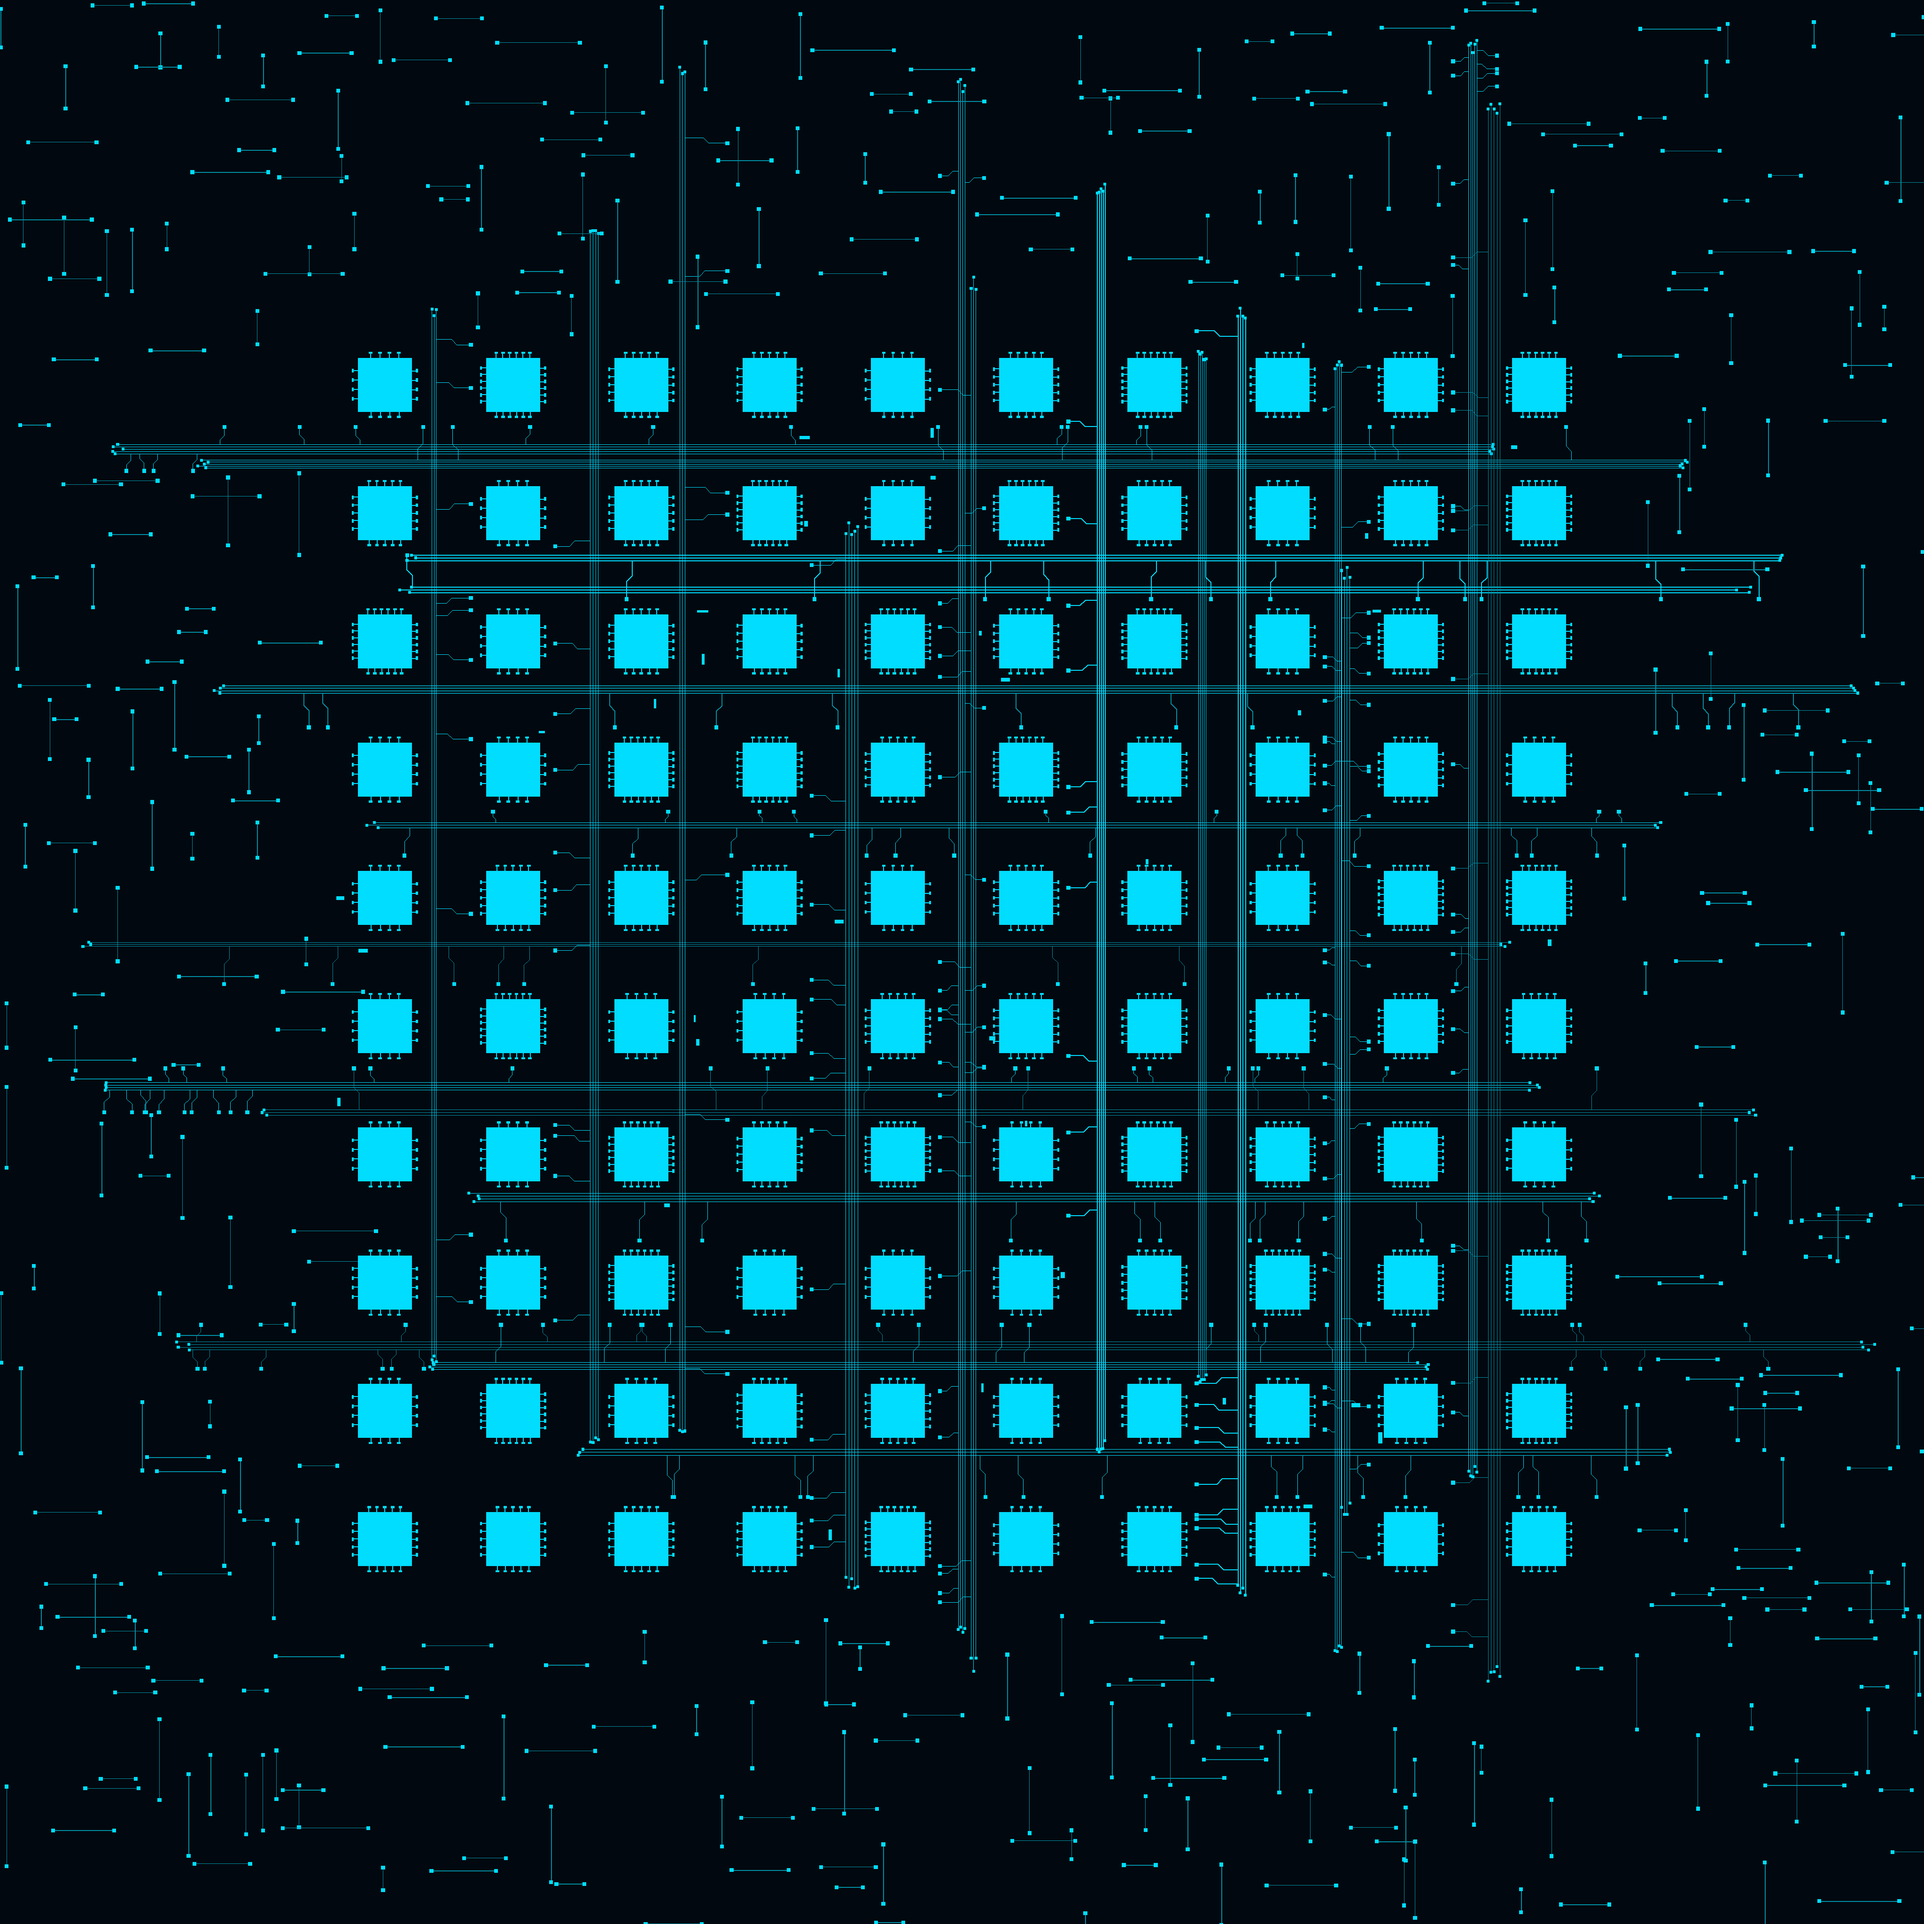
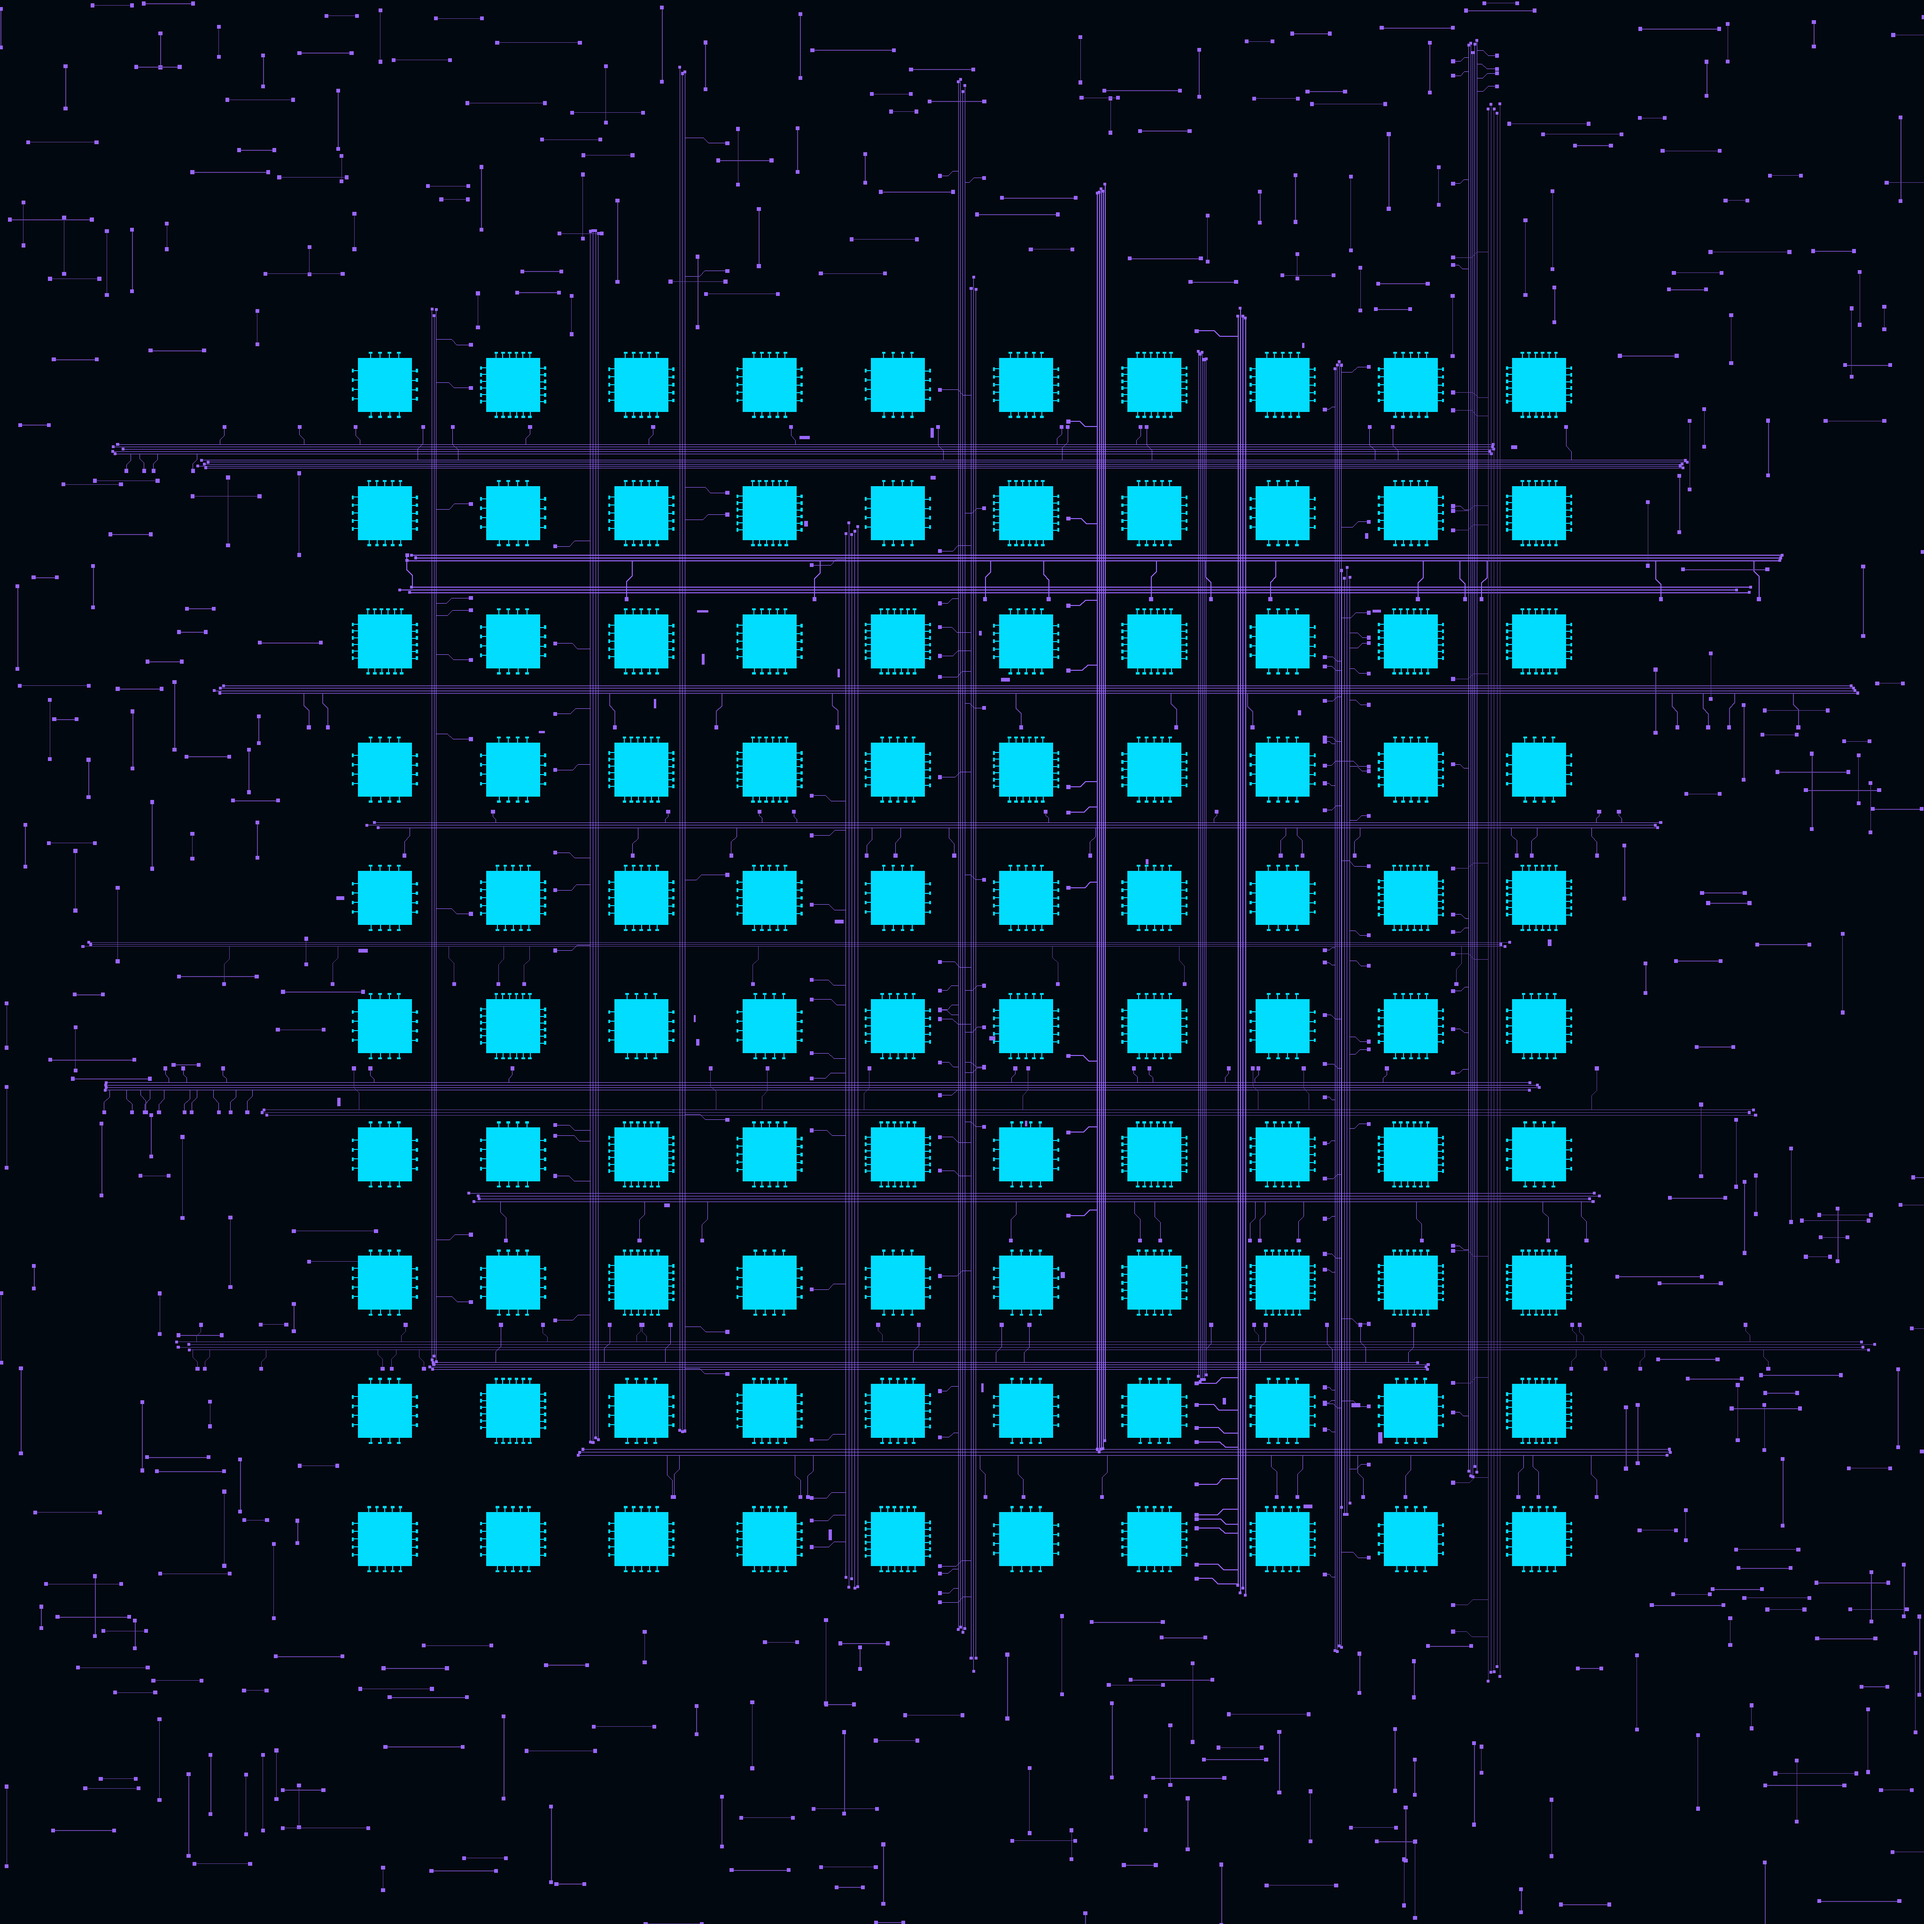
hackers: floor PCB traces purple, tower footprints stay cyan
Per refs (user 2026-05-03): "the floor lines/traces are pretty
consistently purple ... reflections of the purple circuit lines in
the glass of the tower faces."

Split the gen_floor.py palette: --primary now drives the bus traces /
dogleg connectors / accent badges (default #9966ff purple), and a new
--tower-color drives tower footprints + perimeter chip pads + stubs
(default #00ddff cyan, matches the tower-edge tubes). Re-baked
assets/floor_baked.png.

If the purple reads too dim against the dark floor, bump --primary
toward #b078ff or #c099ff and re-bake.

diff --git a/tools/gen_floor.py b/tools/gen_floor.py
@@ -143,6 +143,7 @@ def bake(
     bg_color: str,
     primary: str,
     accent: str,
+    tower_color: str,
     seed: int,
 ) -> Image.Image:
     rng = random.Random(seed)
@@ -414,11 +415,13 @@ def bake(
             continue
         draw_rect_units(draw, spec, x, z, bw, bd, primary)
 
-    # 6. Tower footprints = bright cyan "hole into a bright light"
-    #    visible through translucent tower glass. Overpaint clears any
-    #    trace clutter inside the bbox and lays down a clean bright fill;
-    #    perimeter chip pads + stubs draw next on top.
-    overpaint_tower_bboxes(draw, spec, fill=primary, margin=0.0)
+    # 6. Tower footprints = bright "hole into a bright light" visible
+    #    through translucent tower glass. Uses tower_color (cyan, matches
+    #    the tower-edge tubes) — distinct from primary which colours the
+    #    purple PCB traces per refs (user 2026-05-03 "the floor lines/
+    #    traces are pretty consistently purple ... reflections of the
+    #    purple circuit lines in the glass of the tower faces").
+    overpaint_tower_bboxes(draw, spec, fill=tower_color, margin=0.0)
 
     # 7. Per-tower perimeter chip pads + stubs (drawn AFTER overpaint
     #    so they sit on the dark tower border).
@@ -451,9 +454,9 @@ def bake(
                         ex, ez = px, pz + stub_len
                     else:
                         ex, ez = px - stub_len, pz
-                    draw_line_units(draw, spec, px, pz, ex, ez, 0.08, primary)
+                    draw_line_units(draw, spec, px, pz, ex, ez, 0.08, tower_color)
                     pw, pd = (pad_w, pad_d) if side in (0, 2) else (pad_d, pad_w)
-                    draw_rect_units(draw, spec, ex, ez, pw, pd, primary)
+                    draw_rect_units(draw, spec, ex, ez, pw, pd, tower_color)
 
     return img
 
@@ -473,7 +476,11 @@ def main() -> None:
         "--resolution", type=int, default=4096, help="output PNG square resolution in px"
     )
     p.add_argument("--bg", default="#02080f")
-    p.add_argument("--primary", default="#00ddff")
+    # Trace lines (PCB bus work, dogleg connectors, accent badges) —
+    # purple per Hackers movie refs. Tower footprints + chip pads still
+    # use --tower-color (cyan, matches the tower-edge tubes).
+    p.add_argument("--primary", default="#9966ff")
+    p.add_argument("--tower-color", default="#00ddff")
     p.add_argument("--accent", default="#ff3a8c")
     p.add_argument("--seed", type=int, default=12345)
     p.add_argument("--out", type=Path, default=Path("assets/floor_baked.png"))
@@ -490,7 +497,7 @@ def main() -> None:
         f"baking floor: field={spec.field_size}u, floor={spec.floor_size}u, "
         f"px/unit={spec.px_per_unit:.2f}, out={args.out}"
     )
-    img = bake(spec, args.bg, args.primary, args.accent, args.seed)
+    img = bake(spec, args.bg, args.primary, args.accent, args.tower_color, args.seed)
     args.out.parent.mkdir(parents=True, exist_ok=True)
     img.save(args.out, optimize=True)
     print(f"wrote {args.out} ({args.out.stat().st_size / 1024:.0f} KB)")
